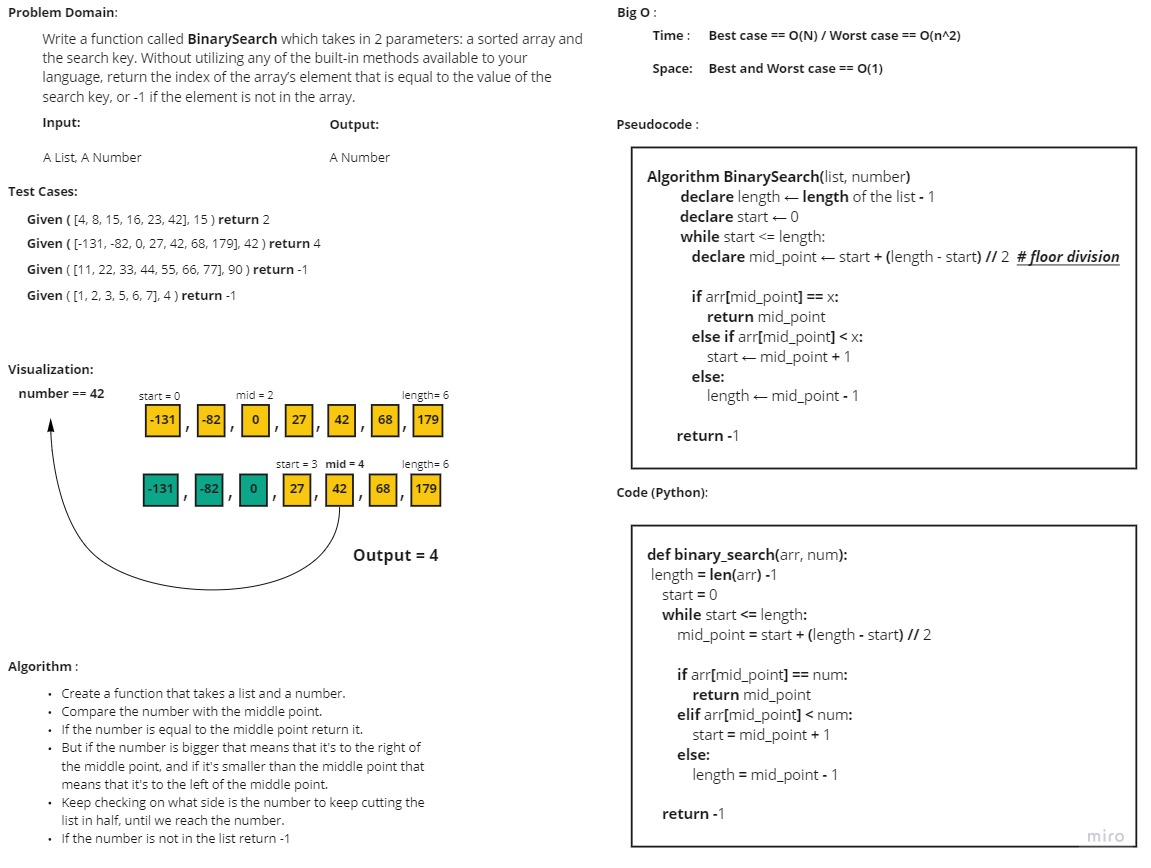
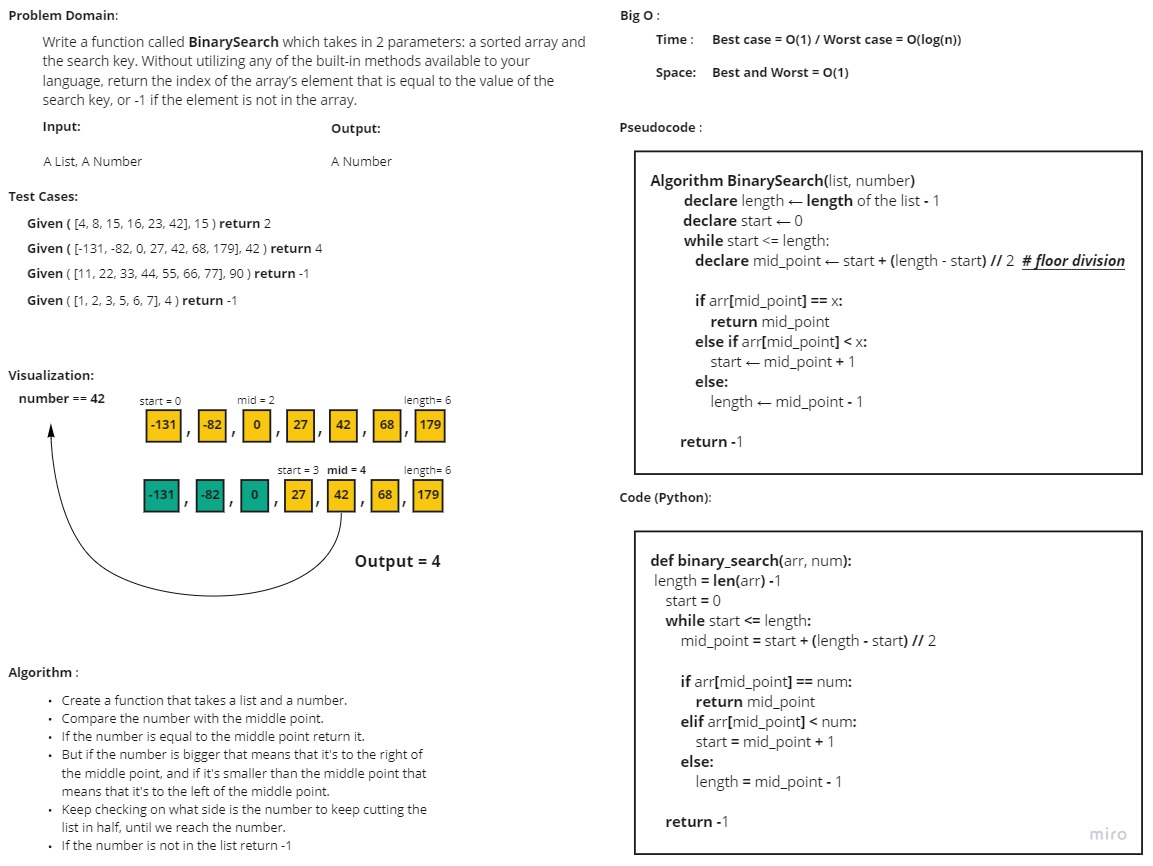
Fixed some text

diff --git a/array-binary-search/README.md b/array-binary-search/README.md
@@ -18,5 +18,5 @@ cut the list in half according to the value of the mid, if the number is bigger 
 cut the right.
 
 As for the **Big O space/time complexity**:
-- **Time complexity** ==> Best Case = O(n), Worst Case = O(n^2)
+- **Time complexity** ==> Best Case = O(1), Worst Case = O(log(n))
 - **Space complexity** ==> Best and Worst Case = O(1)
